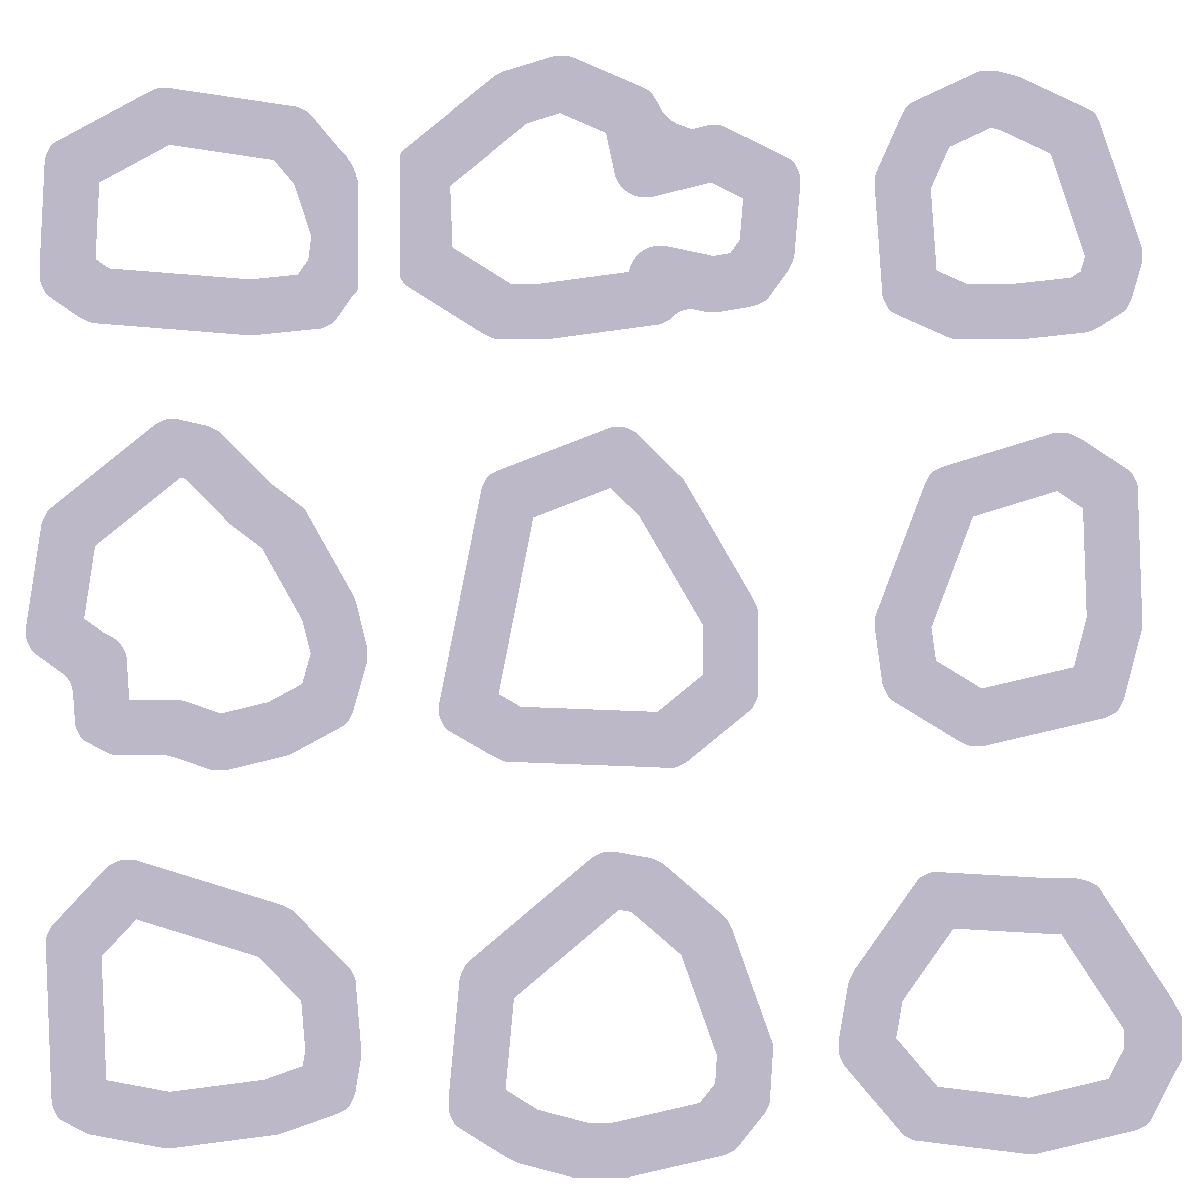
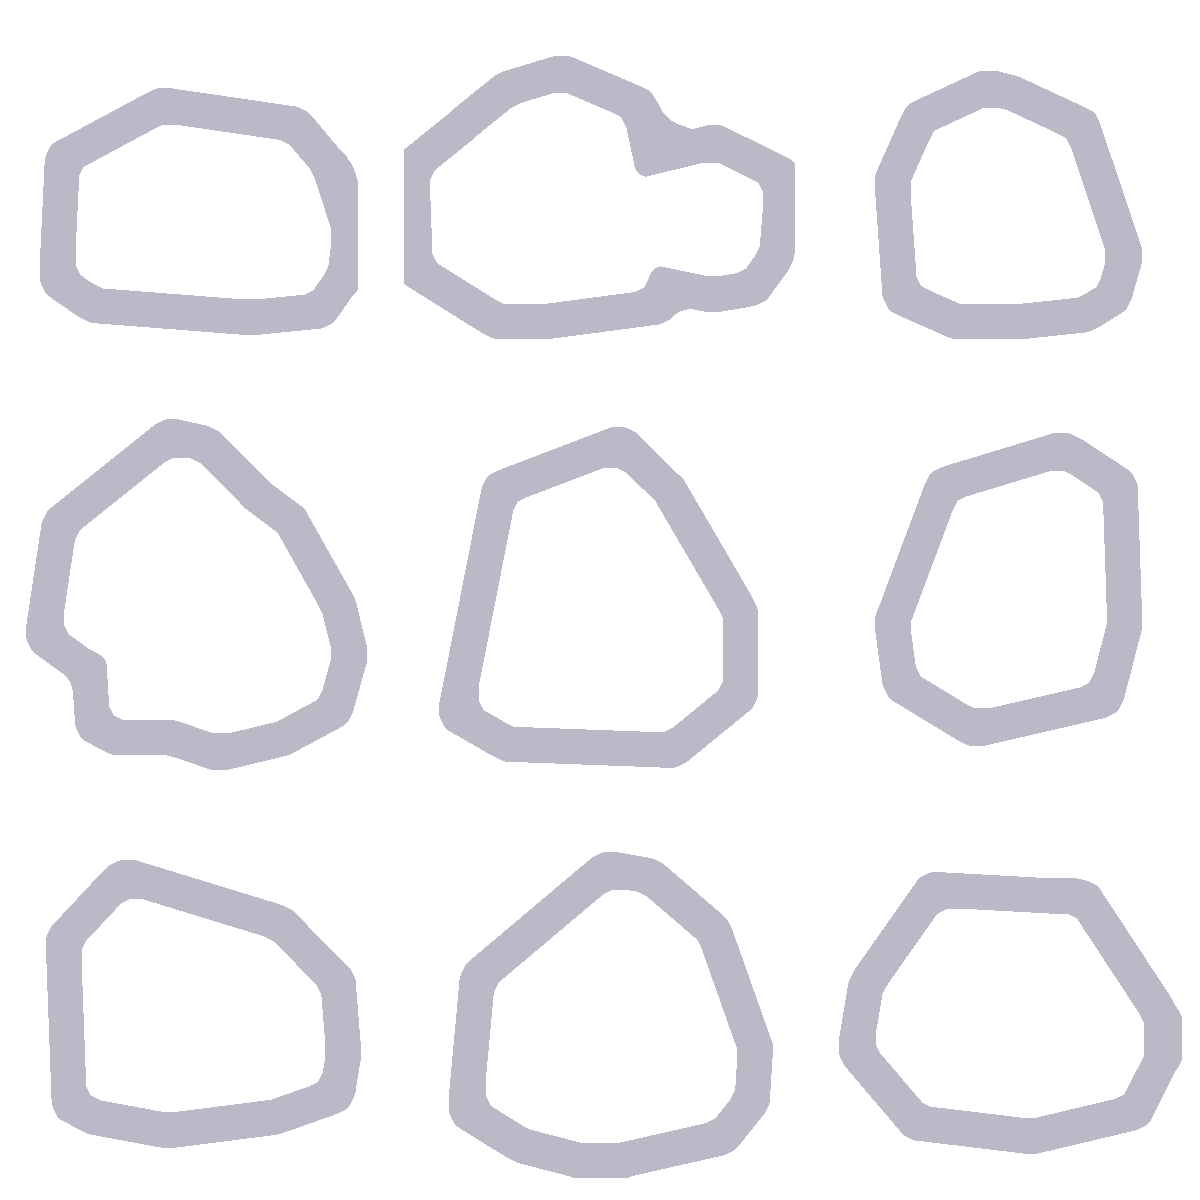
Foam on top of rocks

diff --git a/src/scene_main.cpp b/src/scene_main.cpp
@@ -57,13 +57,6 @@ void SceneMain::Draw()
 {
 	Window::Clear(0, 0, 0);
 
-	Window::BeginRenderToTexture(outlinedSprites, true);
-	Window::Clear(0,0,0,0);
-	for (Rock* rock : Rock::GetAll()) {
-		rock->DrawFoam();
-	}
-	Window::EndRenderToTexture();
-
 	Assets::seaShader.Activate();
 	Assets::seaShader.SetUniform("offset", Camera::Center());
 	Assets::seaShader.SetUniform("iResolution", Window::GetViewportScaledResolution());
@@ -75,18 +68,20 @@ void SceneMain::Draw()
 
 	ship.DrawStroke();
 
+	for (Rock* rock : Rock::GetAll()) {
+		rock->Draw();
+	}
+
 	Assets::outlineShader.Activate();
 	Assets::outlineShader.SetUniform("offset", Camera::Center());
 	Assets::outlineShader.SetUniform("iResolution", Window::GetViewportScaledResolution());
 	Assets::outlineShader.SetUniform("windowScale", Window::GetViewportScale());
 	Assets::outlineShader.SetUniform("zoom", Camera::Zoom());
 	Assets::outlineShader.SetUniform("iTime", mainClock);
-	Window::Draw(outlinedSprites, Camera::Bounds());
-	Assets::outlineShader.Deactivate();
-
 	for (Rock* rock : Rock::GetAll()) {
-		rock->Draw();
+		rock->DrawFoam();
 	}
+	Assets::outlineShader.Deactivate();
 
 	Particles::waterTrail.Draw();
 
